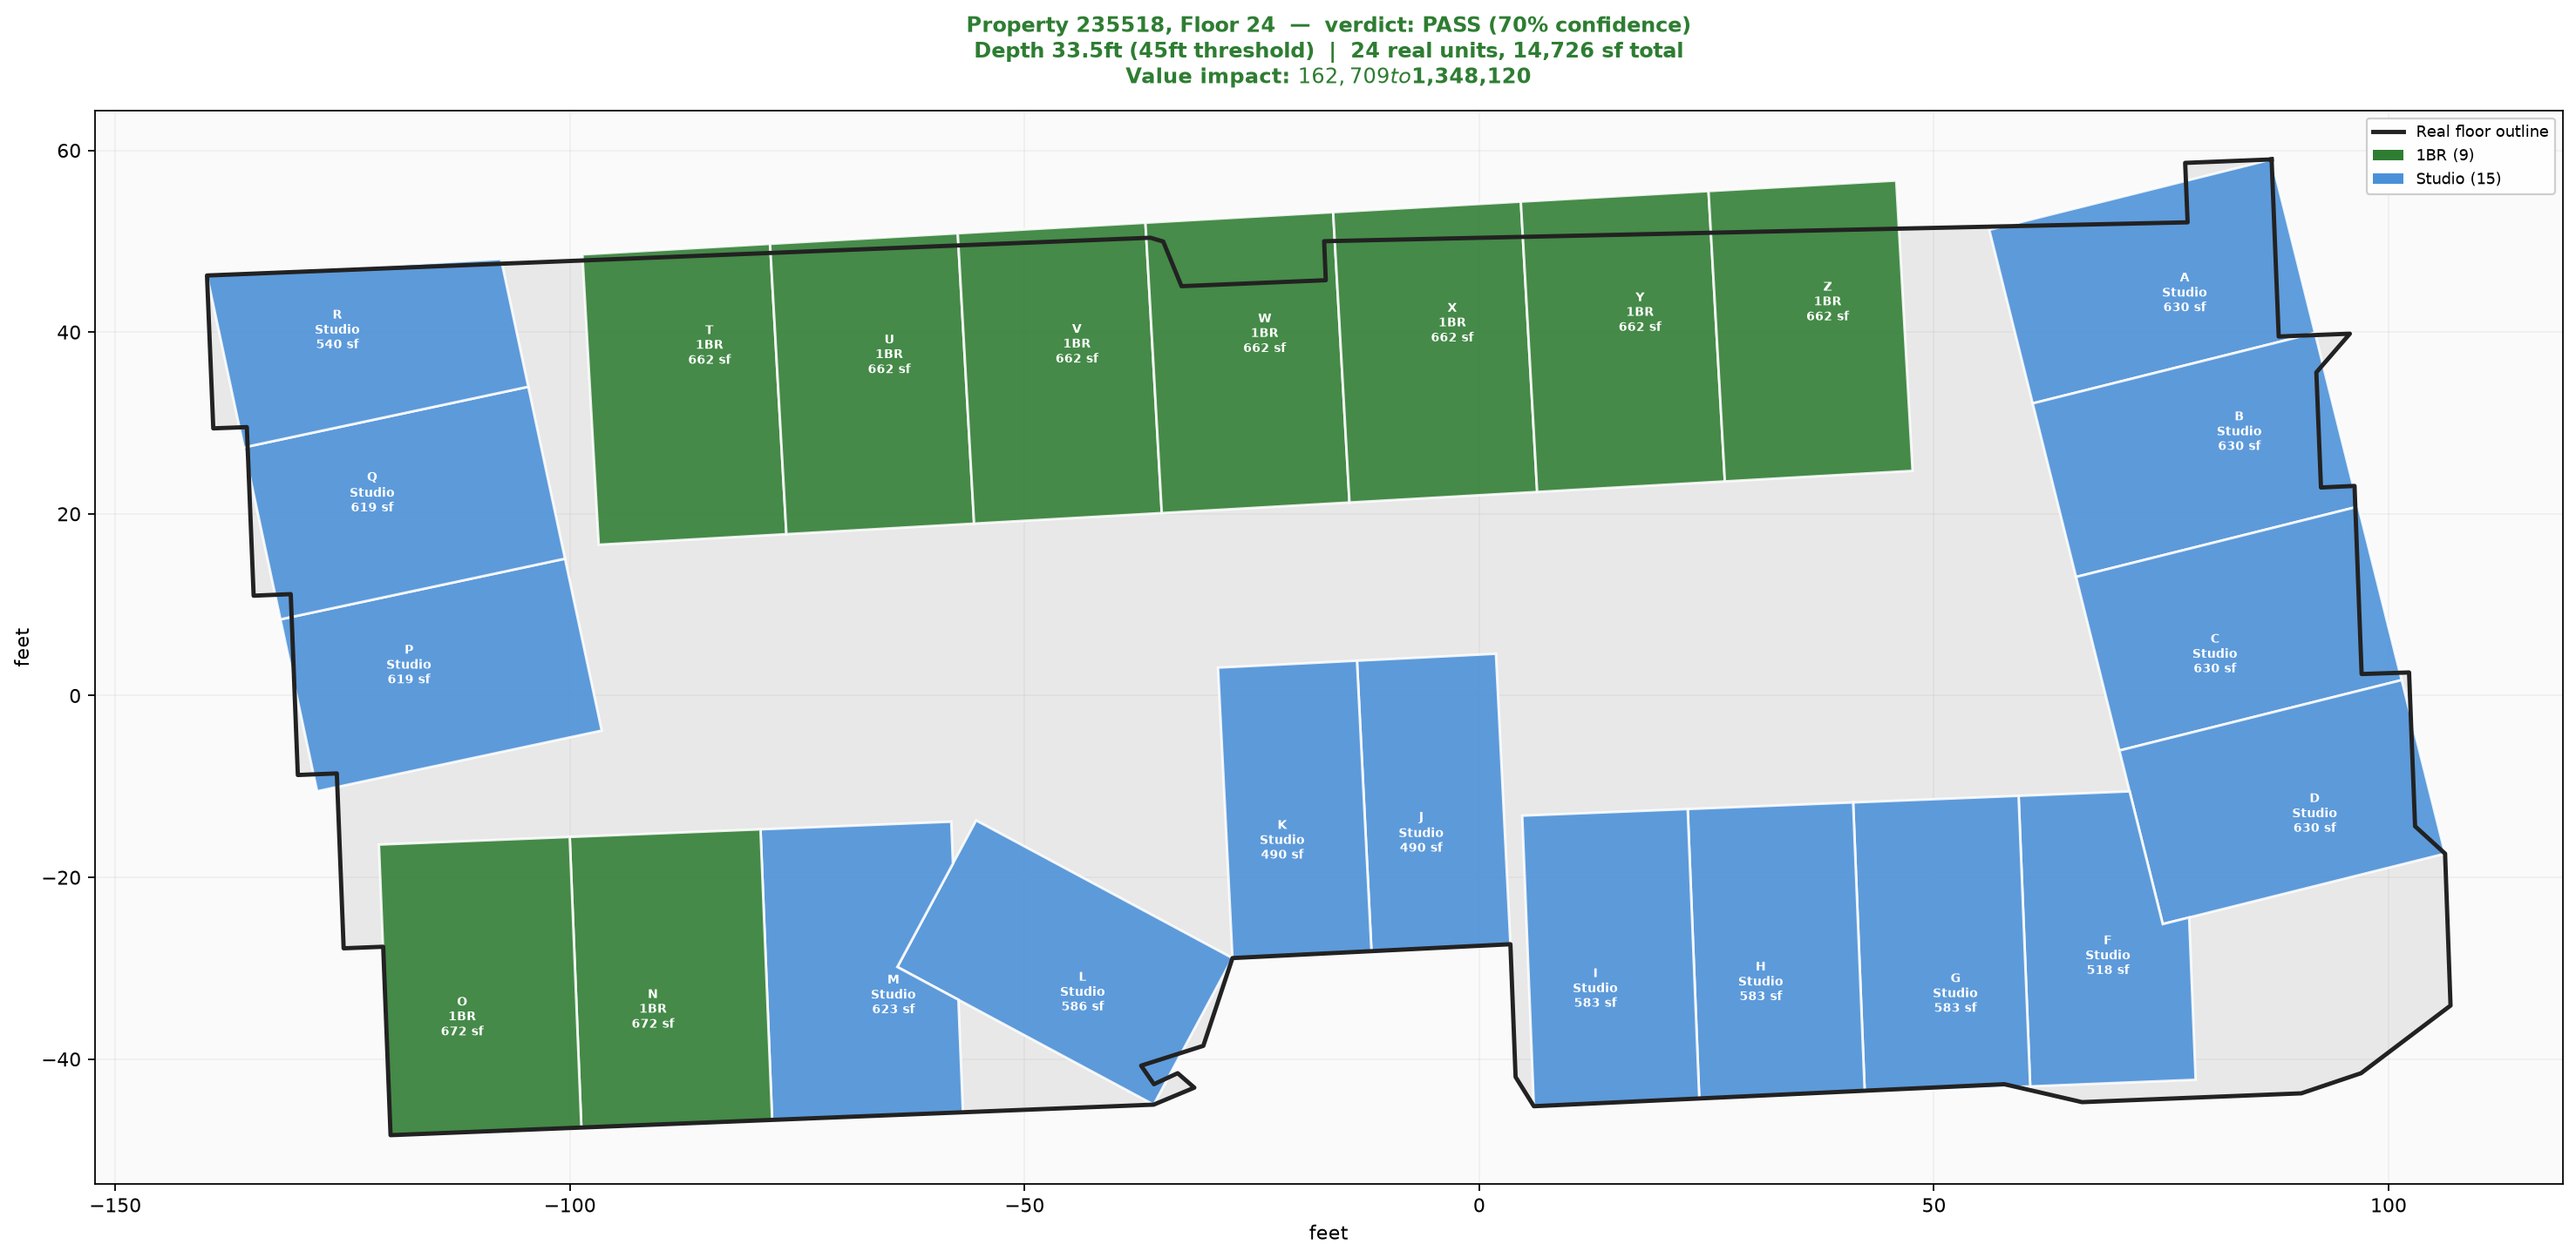
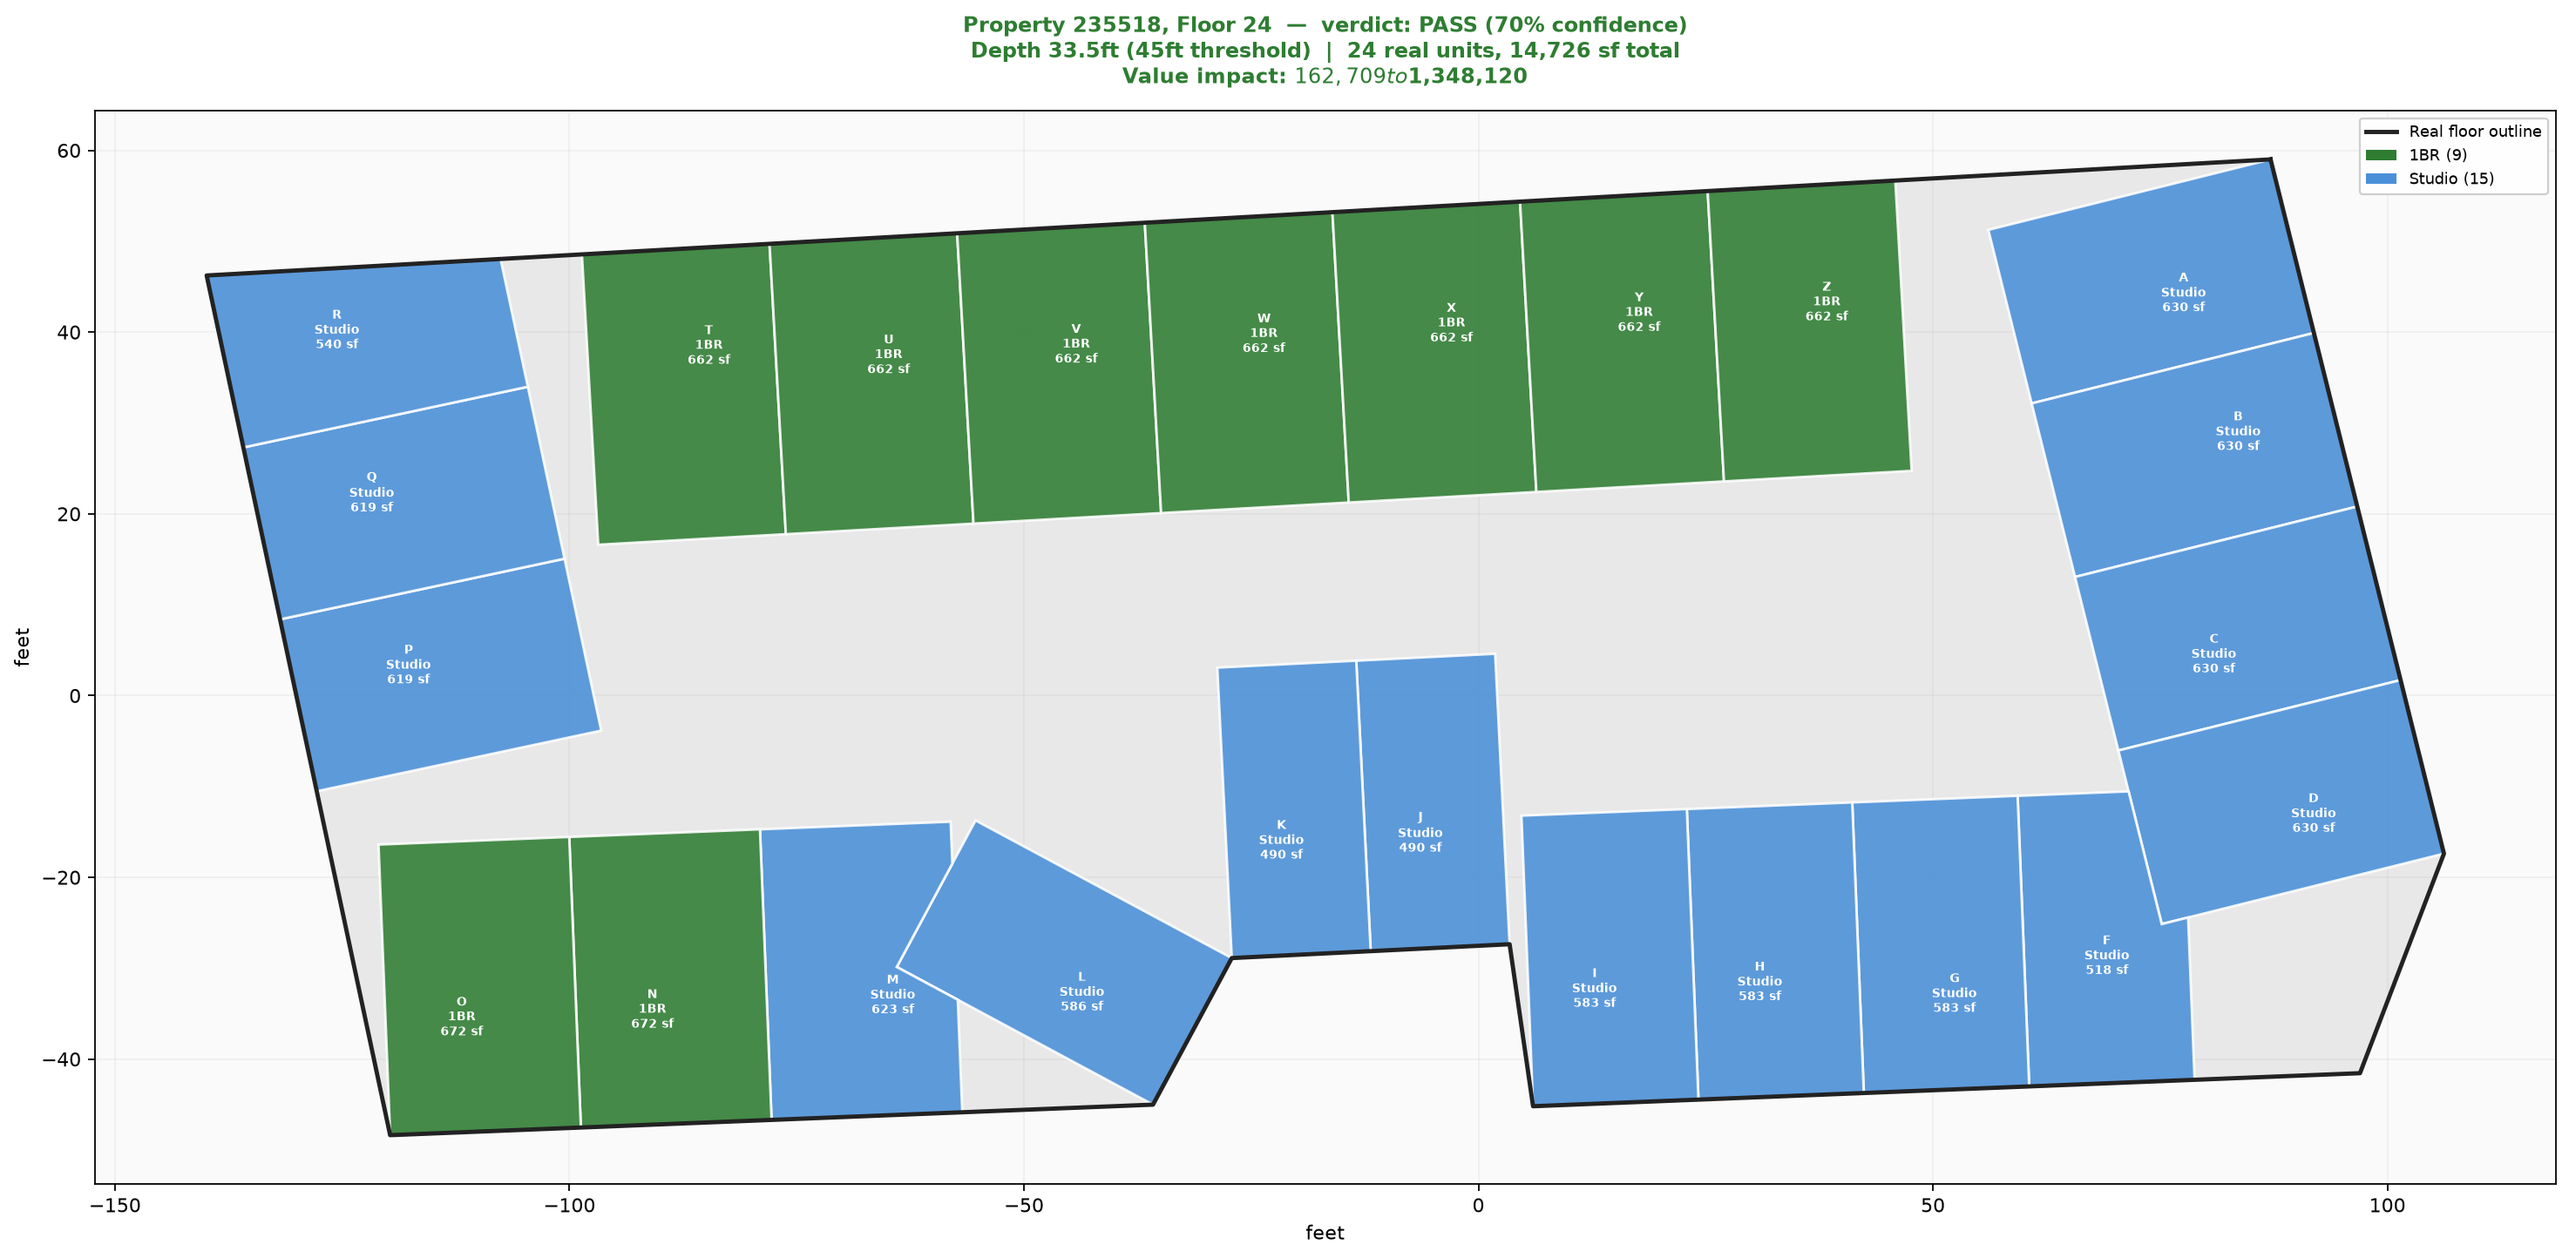
Fix render outline/unit shape mismatch: draw the smoothed footprint, not the raw one
A real screenshot of Bridgewood I caught a jagged notch in the drawn
outline near unit Y that the units themselves didn't follow. Root
cause: render_floor.py drew the RAW Vexcel footprint for the black
outline, while run_feasibility() smooths it (SIMPLIFY_TOLERANCE_M)
before generating units internally - two different shapes rendered
on the same picture.

Checked the real smoothed footprint directly: it's a clean 5-vertex
quadrilateral with zero zigzags, confirming the notch was purely a
rendering inconsistency, not real building geometry. Fixed by
smoothing with the exact same tolerance before extracting the
outline coordinates, so the drawn shape always matches what the
units were actually computed against.

Re-rendered and refreshed results for all 14 buildings - no verdict
regressions.

diff --git a/demo/render_floor.py b/demo/render_floor.py
@@ -39,7 +39,16 @@ def render(property_id: int, floor_name: int, vexcel_response: dict, query_lat: 
         real_column_depth_ft=real_column_depth_ft,
     )
 
+    # Smooth with the exact same tolerance run_feasibility() uses internally
+    # before generating units. A real screenshot caught the drawn outline
+    # showing jagged notches the units themselves don't follow - the outline
+    # was being drawn from the RAW footprint while units were computed
+    # against the SMOOTHED one, two different shapes on the same picture.
+    # Smoothing here too makes the outline always match what the units were
+    # actually generated against.
+    from geometry import SIMPLIFY_TOLERANCE_M
     footprint = load_scaled_footprint(vexcel_response, query_lat, query_lon, real_floor_area_sqft)
+    footprint = footprint.simplify(SIMPLIFY_TOLERANCE_M, preserve_topology=True)
     footprint_ft = [(x * METERS_TO_FEET, y * METERS_TO_FEET) for x, y in footprint.exterior.coords]
 
     # Re-run geometry directly to get the real unit polygons (run_pipeline doesn't return them)
